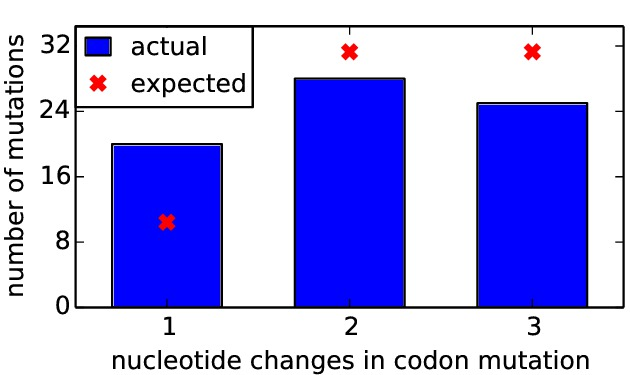
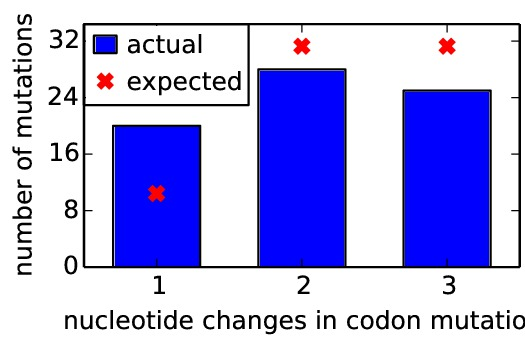
Updated plot sizes

Changed region(s): [[0.0, 0.0296, 1.0, 1.0]]

diff --git a/2014Analysis_Influenza_HA_WSN/analyze_library.py b/2014Analysis_Influenza_HA_WSN/analyze_library.py
@@ -152,8 +152,8 @@ def PlotNCodonMuts(allmutations, plotfile, title):
     plotfile -> name of the plot file we create.
     title -> string giving the plot title.
     """
-    pylab.figure(figsize=(4.2, 2.5))
-    (lmargin, rmargin, bmargin, tmargin) = (0.12, 0.01, 0.18, 0.07)
+    pylab.figure(figsize=(3.5, 2.25))
+    (lmargin, rmargin, bmargin, tmargin) = (0.16, 0.01, 0.21, 0.07)
     pylab.axes([lmargin, bmargin, 1.0 - lmargin - rmargin, 1.0 - bmargin - tmargin])
     nchanges = {1:0, 2:0, 3:0}
     nmuts = len(allmutations)
@@ -173,7 +173,7 @@ def PlotNCodonMuts(allmutations, plotfile, title):
     pylab.gca().yaxis.set_major_locator(matplotlib.ticker.MaxNLocator(5))
     pylab.xlabel('nucleotide changes in codon mutation')
     pylab.ylabel('number of mutations')
-    pylab.legend((bar[0], pred[0]), ('actual', 'expected'), loc='upper left', numpoints=1, handlelength=1, borderaxespad=0)
+    pylab.legend((bar[0], pred[0]), ('actual', 'expected'), loc='upper left', numpoints=1, handlelength=0.9, borderaxespad=0, handletextpad=0.4)
     pylab.title(title, fontsize=12)
     pylab.savefig(plotfile)
     time.sleep(0.5)
